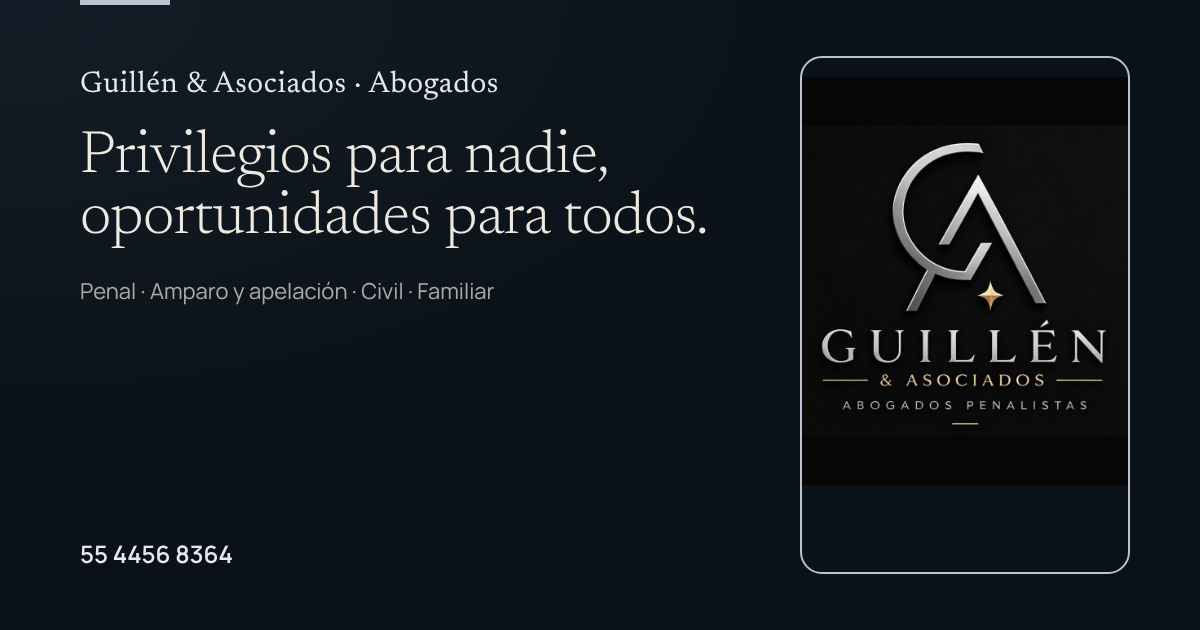
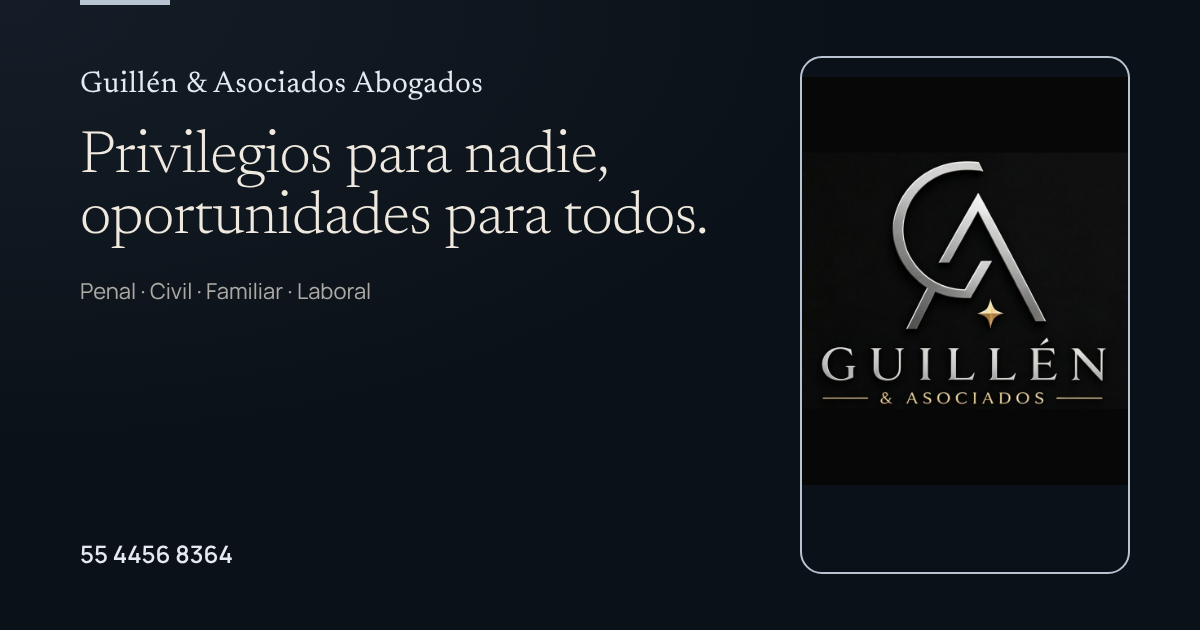
Guillén & Asociados: correcciones del cliente (sin 'penalistas', 4 materias en lenguaje claro, laboral)
Claude-Session: https://claude.ai/code/session_01NoRBTV7oLxXa3rJ8qzCebt

Changed region(s): [[0.6783, 0.2111, 0.925, 0.6635], [0.1233, 0.4524, 0.4317, 0.4825], [0.2775, 0.1206, 0.4317, 0.181]]

diff --git a/public/guillen-asociados/datos.js b/public/guillen-asociados/datos.js
@@ -1,7 +1,7 @@
 /* LicLink · datos generados desde prospectos/abogados.json. Para cambiar algo, edita ese archivo y vuelve a generar. */
 window.DATOS = {
   "vistaPrevia": false,
-  "propuesta": "Lic. Arturo Guillén González",
+  "propuesta": "Guillén & Asociados Abogados",
   "muestra": false,
   "tema": {
     "fondo": "#0b1118",
@@ -12,14 +12,14 @@ window.DATOS = {
     "acento2": "#e4eaf0"
   },
   "simbolo": "balanza",
-  "despacho": "Guillén",
-  "sufijo": "& Asociados · Abogados",
-  "abogado": "Lic. Arturo Guillén González",
-  "titulo": "Abogado penalista",
-  "descripcion": "Abogados penalistas · materia penal, civil y familiar",
+  "despacho": "Guillén & Asociados",
+  "sufijo": "Abogados",
+  "abogado": "Guillén & Asociados Abogados",
+  "titulo": "Abogados",
+  "descripcion": "Abogados en materia penal, civil, familiar y laboral",
   "cedula": "",
   "modalidad": "Consultoría en línea o presencial",
-  "iniciales": "AG",
+  "iniciales": "GA",
   "foto": "foto.jpg",
   "fotoLogo": true,
   "frase": "Tu defensa, nuestra prioridad.",
@@ -29,7 +29,7 @@ window.DATOS = {
       "oportunidades",
       "para todos."
     ],
-    "texto": "Defensa penal integral, amparo y asuntos civiles y familiares. Confianza, justicia y resultados legales, en línea o presencial."
+    "texto": "Abogados en materia penal, civil, familiar y laboral. Te explicamos tu caso con claridad y te defendemos desde el primer momento, en línea o presencial."
   },
   "whatsapp": "525544568364",
   "telefono": "5544568364",
@@ -38,72 +38,73 @@ window.DATOS = {
   "precioConsulta": "Cuota de recuperación",
   "areas": [
     {
-      "nombre": "Derecho penal",
+      "nombre": "Penal",
       "icono": "escudo",
-      "texto": "Defensa penal integral desde el primer momento, en Ministerios Públicos y juzgados.",
+      "texto": "¿Detuvieron a un familiar o te acusan de un delito? Te defendemos desde el primer momento.",
       "puntos": [
-        "Defensa penal integral (homicidio, robo, fraude, etc.)",
-        "Control de detención y vinculación a proceso",
-        "Defensa en audiencias",
-        "Sobreseimiento y extinción de la acción penal",
-        "Acuerdos reparatorios y suspensión condicional",
-        "Litigio de alto perfil",
-        "Asesoría a víctimas"
+        "Si detienen a un familiar: lo asistimos en el Ministerio Público",
+        "Si te acusan de un delito: robo, fraude, lesiones, homicidio y otros",
+        "Si fuiste víctima de un delito: te acompañamos a denunciar y en todo el proceso",
+        "Te representamos en audiencias y en el juicio",
+        "Buscamos salidas antes del juicio, como un acuerdo con la víctima",
+        "Apelación y amparo si no estás de acuerdo con una resolución"
       ]
     },
     {
-      "nombre": "Amparo y apelación",
-      "icono": "escudo",
-      "texto": "Recursos para proteger tus derechos frente a actos de autoridad.",
-      "puntos": [
-        "Recursos de apelación",
-        "Amparo y suspensión de actos"
-      ]
-    },
-    {
-      "nombre": "Derecho civil",
+      "nombre": "Civil",
       "icono": "balanza",
-      "texto": "Contratos, arrendamientos, herencias y cobranza.",
+      "texto": "Problemas con una casa, un contrato o alguien que te debe dinero.",
       "puntos": [
-        "Contratos y obligaciones",
-        "Juicios de arrendamiento y desalojo",
-        "Sucesiones y herencias",
-        "Cobranza judicial y extrajudicial"
+        "Te deben dinero: pagarés, préstamos o facturas",
+        "Problemas con tu inquilino o tu casero: rentas y desalojos",
+        "Herencias: cuando alguien fallece, con o sin testamento",
+        "Revisamos o hacemos tus contratos antes de que firmes"
       ]
     },
     {
-      "nombre": "Derecho familiar",
+      "nombre": "Familiar",
       "icono": "familia",
-      "texto": "Acompañamiento en los asuntos más importantes de tu familia.",
+      "texto": "Te acompañamos en los asuntos más delicados de tu familia.",
       "puntos": [
-        "Divorcios (voluntario e incausado)",
-        "Pensión alimenticia y custodia",
-        "Paternidad y adopción",
-        "Juicios sucesorios familiares"
+        "Divorcio, aunque tu pareja no esté de acuerdo",
+        "Pensión alimenticia: pedirla, aumentarla o reducirla",
+        "Custodia y visitas con tus hijos",
+        "Reconocimiento de paternidad y adopción"
+      ]
+    },
+    {
+      "nombre": "Laboral",
+      "icono": "maletin",
+      "texto": "¿Te despidieron o no te pagaron lo que te corresponde? Te ayudamos a reclamarlo.",
+      "puntos": [
+        "Despido injustificado: reclamamos tu indemnización",
+        "Finiquito o liquidación mal calculados",
+        "Prestaciones no pagadas: aguinaldo, vacaciones y horas extra",
+        "Si tu patrón no te dio de alta en el IMSS"
       ]
     }
   ],
   "paquetes": [],
   "compromisos": [
-    "Confianza, justicia y resultados legales",
+    "Te explicamos tu caso en palabras claras",
     "Atención en línea o presencial",
     "Primera consulta con cuota de recuperación"
   ],
   "situaciones": [
     {
-      "texto": "Hay una persona detenida en este momento",
+      "texto": "Detuvieron a un familiar o me acusan de un delito",
       "urgente": true
     },
     {
-      "texto": "Recibí un citatorio o una notificación",
+      "texto": "Me despidieron o no me pagaron lo que me corresponde",
       "urgente": false
     },
     {
-      "texto": "Ya hay una carpeta o proceso abierto",
+      "texto": "Tengo un asunto familiar: divorcio, pensión o custodia",
       "urgente": false
     },
     {
-      "texto": "Solo quiero orientación",
+      "texto": "Me deben dinero o tengo un problema con una casa",
       "urgente": false
     }
   ],

diff --git a/public/guillen-asociados/index.html b/public/guillen-asociados/index.html
@@ -5,11 +5,11 @@
 <meta name="robots" content="noindex, nofollow">
 <meta name="viewport" content="width=device-width, initial-scale=1">
 <meta name="theme-color" content="#09080a">
-<title>Guillén &amp; Asociados · Abogados · Lic. Arturo Guillén González</title>
-<meta name="description" content="Abogados penalistas · materia penal, civil y familiar. Escríbenos por WhatsApp.">
+<title>Guillén &amp; Asociados Abogados</title>
+<meta name="description" content="Abogados en materia penal, civil, familiar y laboral. Escríbenos por WhatsApp.">
 <meta property="og:type" content="website">
-<meta property="og:title" content="Guillén &amp; Asociados · Abogados">
-<meta property="og:description" content="Abogados penalistas · materia penal, civil y familiar. Escríbenos por WhatsApp.">
+<meta property="og:title" content="Guillén &amp; Asociados Abogados">
+<meta property="og:description" content="Abogados en materia penal, civil, familiar y laboral. Escríbenos por WhatsApp.">
 <meta property="og:url" content="https://liclink.demomx.workers.dev/guillen-asociados/">
 <meta property="og:image" content="https://liclink.demomx.workers.dev/guillen-asociados/compartir.png">
 <meta property="og:image:width" content="1200">

diff --git a/prospectos/ESTADO.md b/prospectos/ESTADO.md
@@ -12,4 +12,4 @@ Propuestas: 7 · Vendidos: 0 · Borrados: 2
 | 2026-10-31 | RPA & Asociados | /rpa-asociados/ | propuesta | https://www.facebook.com/profile.php?id=61592791318876 |
 | 2026-10-31 | Consorcio Jurídico Alcántara & Asociados | /alcantara-asociados/ | propuesta | https://www.facebook.com/alcantaraasociados.consorciojuridico/ |
 | 2026-10-31 | Lic. Mayra Gallardo | /gallardo-asociados/ | propuesta | https://www.facebook.com/mayra.gallardo.3154/ |
-| 2026-11-01 | Lic. Arturo Guillén González | /guillen-asociados/ | propuesta | https://www.facebook.com/arturo.guillen.7902564/ |
+| 2026-11-01 | Guillén & Asociados Abogados | /guillen-asociados/ | propuesta | https://www.facebook.com/arturo.guillen.7902564/ |
